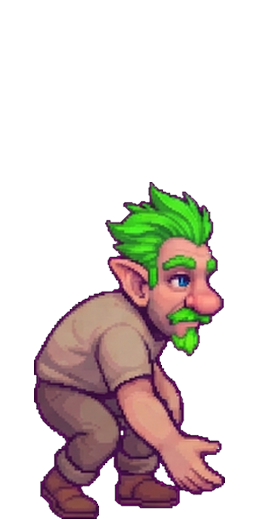
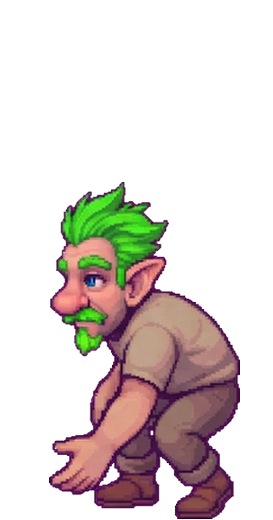
Lado das folhas de perfil fixo por folha (gnomo nao anda mais de costas)
O voto automatico do lado (nariz x cabelo verde) mudava entre importacoes e a anotacao
'espelhar' (relativa ao voto) deixava de valer. Agora cada folha de perfil tem o lado da
folha original gravado em folhas_lados.json ('fonte_direita' / 'fonte_esquerda'); sem
anotacao o importador vota uma vez e grava. Conferido no olho: gnomo (andar, pulo, sentar,
abaixar, espada, chute) e pulo do meio-elfo corrigidos; demais racas conferidas.

diff --git a/tools/arte/importar_folhas.py b/tools/arte/importar_folhas.py
@@ -38,6 +38,7 @@ ACOES = {'parado': ('idle', [['down', 'up', 'left']]),
          'soco': ('punch', [['left'] * 5]), 'machado': ('attack_2h', [['left'] * 5]), 'chute': ('kick', [['left'] * 4])}
 REGUA = {'pular', 'sentar', 'abaixar', 'espada', 'soco', 'machado', 'chute'}
 TELA = 1.3                         # a tela tem 30% a mais que a altura de pe (braco erguido, pulo); o jogo sabe (corpo)
+NOVOS_LADOS = {}                   # lado das folhas de perfil decidido pelo voto nesta importacao (gravado no fim)
 PADRAO = {}                        # (acao, dir) -> altura mediana do humano (preenchido ao importar o humano)
 ESPELHO = {'left': 'right', 'down_left': 'down_right', 'up_left': 'up_right'}
 
@@ -187,13 +188,21 @@ def importar(race, cfg, ref):
                 if lados.get(acao, {}).get(dirs[0]) == 'ignorar':   # linha desenhada errada: o jogo usa as 4 direcoes
                     del quadros[(nome, dirs[0])]; continue
                 quadros[(nome, dirs[0])] = [q.transpose(Image.FLIP_LEFT_RIGHT) if errado(q) else q for q in fila]
-            if dirs[0] == 'left':                       # a linha toda de perfil vira para o mesmo lado (voto dos quadros)
+            if dirs[0] == 'left':
+                # linha toda de perfil: para que lado a FOLHA ORIGINAL foi desenhada. Anotado em folhas_lados.json
+                # ('fonte_direita' vira, 'fonte_esquerda' fica). Sem anotacao, vota pelos quadros (nariz x cabelo) e
+                # GRAVA o resultado: o voto mudava de uma importacao para outra (o gnomo de sobrancelha verde andava de
+                # costas) e uma anotacao 'espelhar' relativa ao voto deixava de valer
                 fila = quadros[(nome, 'left')]
-                if sum(olha_para_direita(q) for q in fila) > 0:
+                fonte = lados.get(acao, {}).get('left')
+                if fonte not in ('fonte_direita', 'fonte_esquerda'):
+                    fonte = 'fonte_direita' if sum(olha_para_direita(q) for q in fila) > 0 else 'fonte_esquerda'
+                    NOVOS_LADOS.setdefault(race, {}).setdefault(acao, {})['left'] = fonte
+                if fonte == 'fonte_direita':
                     quadros[(nome, 'left')] = [q.transpose(Image.FLIP_LEFT_RIGHT) for q in fila]
-            # anotacao de folhas_lados.json valendo para qualquer linha (ex.: o perfil sentado veio virado para a direita)
-            for d in set(dirs) - {'down_left', 'up_left'}:
-                if lados.get(acao, {}).get(d) == 'espelhar' and (nome, d) in quadros:
+            # anotacao de folhas_lados.json valendo para as outras linhas (ex.: o perfil sentado veio virado para a direita)
+            for d in set(dirs) - {'down_left', 'up_left'} - ({'left'} if dirs[0] == 'left' else set()):
+                if lados.get(acao, {}).get(d) in ('espelhar', 'fonte_direita') and (nome, d) in quadros:
                     quadros[(nome, d)] = [q.transpose(Image.FLIP_LEFT_RIGHT) for q in quadros[(nome, d)]]
     if not quadros: return None
     if lados.get('parado_do_andar'):                     # folha parada desenhada com outro corpo (elfo magrinho): usa o andar
@@ -288,6 +297,14 @@ def main():
             manifest[race] = ent
             print(f'{race}: tela {ent["w"]}x{ent["h"]}, ' + ', '.join(f'{a} {sum(len(v) for v in d.values())}' for a, d in ent['acoes'].items()))
     json.dump(manifest, open(mpath, 'w', encoding='utf-8'), ensure_ascii=False, indent=1)
+    # congela o lado das folhas de perfil que ainda nao tinham anotacao
+    if NOVOS_LADOS:
+        lpath = os.path.join(HERE, 'folhas_lados.json')
+        lados = json.load(open(lpath, encoding='utf-8')) if os.path.exists(lpath) else {}
+        for race, acoes in NOVOS_LADOS.items():
+            for acao, dd in acoes.items(): lados.setdefault(race, {}).setdefault(acao, {}).update(dd)
+        json.dump(lados, open(lpath, 'w', encoding='utf-8'), ensure_ascii=False, indent=1)
+        print('lado das folhas de perfil gravado em folhas_lados.json:', sum(len(a) for a in NOVOS_LADOS.values()))
     # onde a mao segura a arma em cada quadro (tools/arte/medir_maos.py): os quadros mudaram, mede de novo
     import medir_maos
     medir_maos.main()
